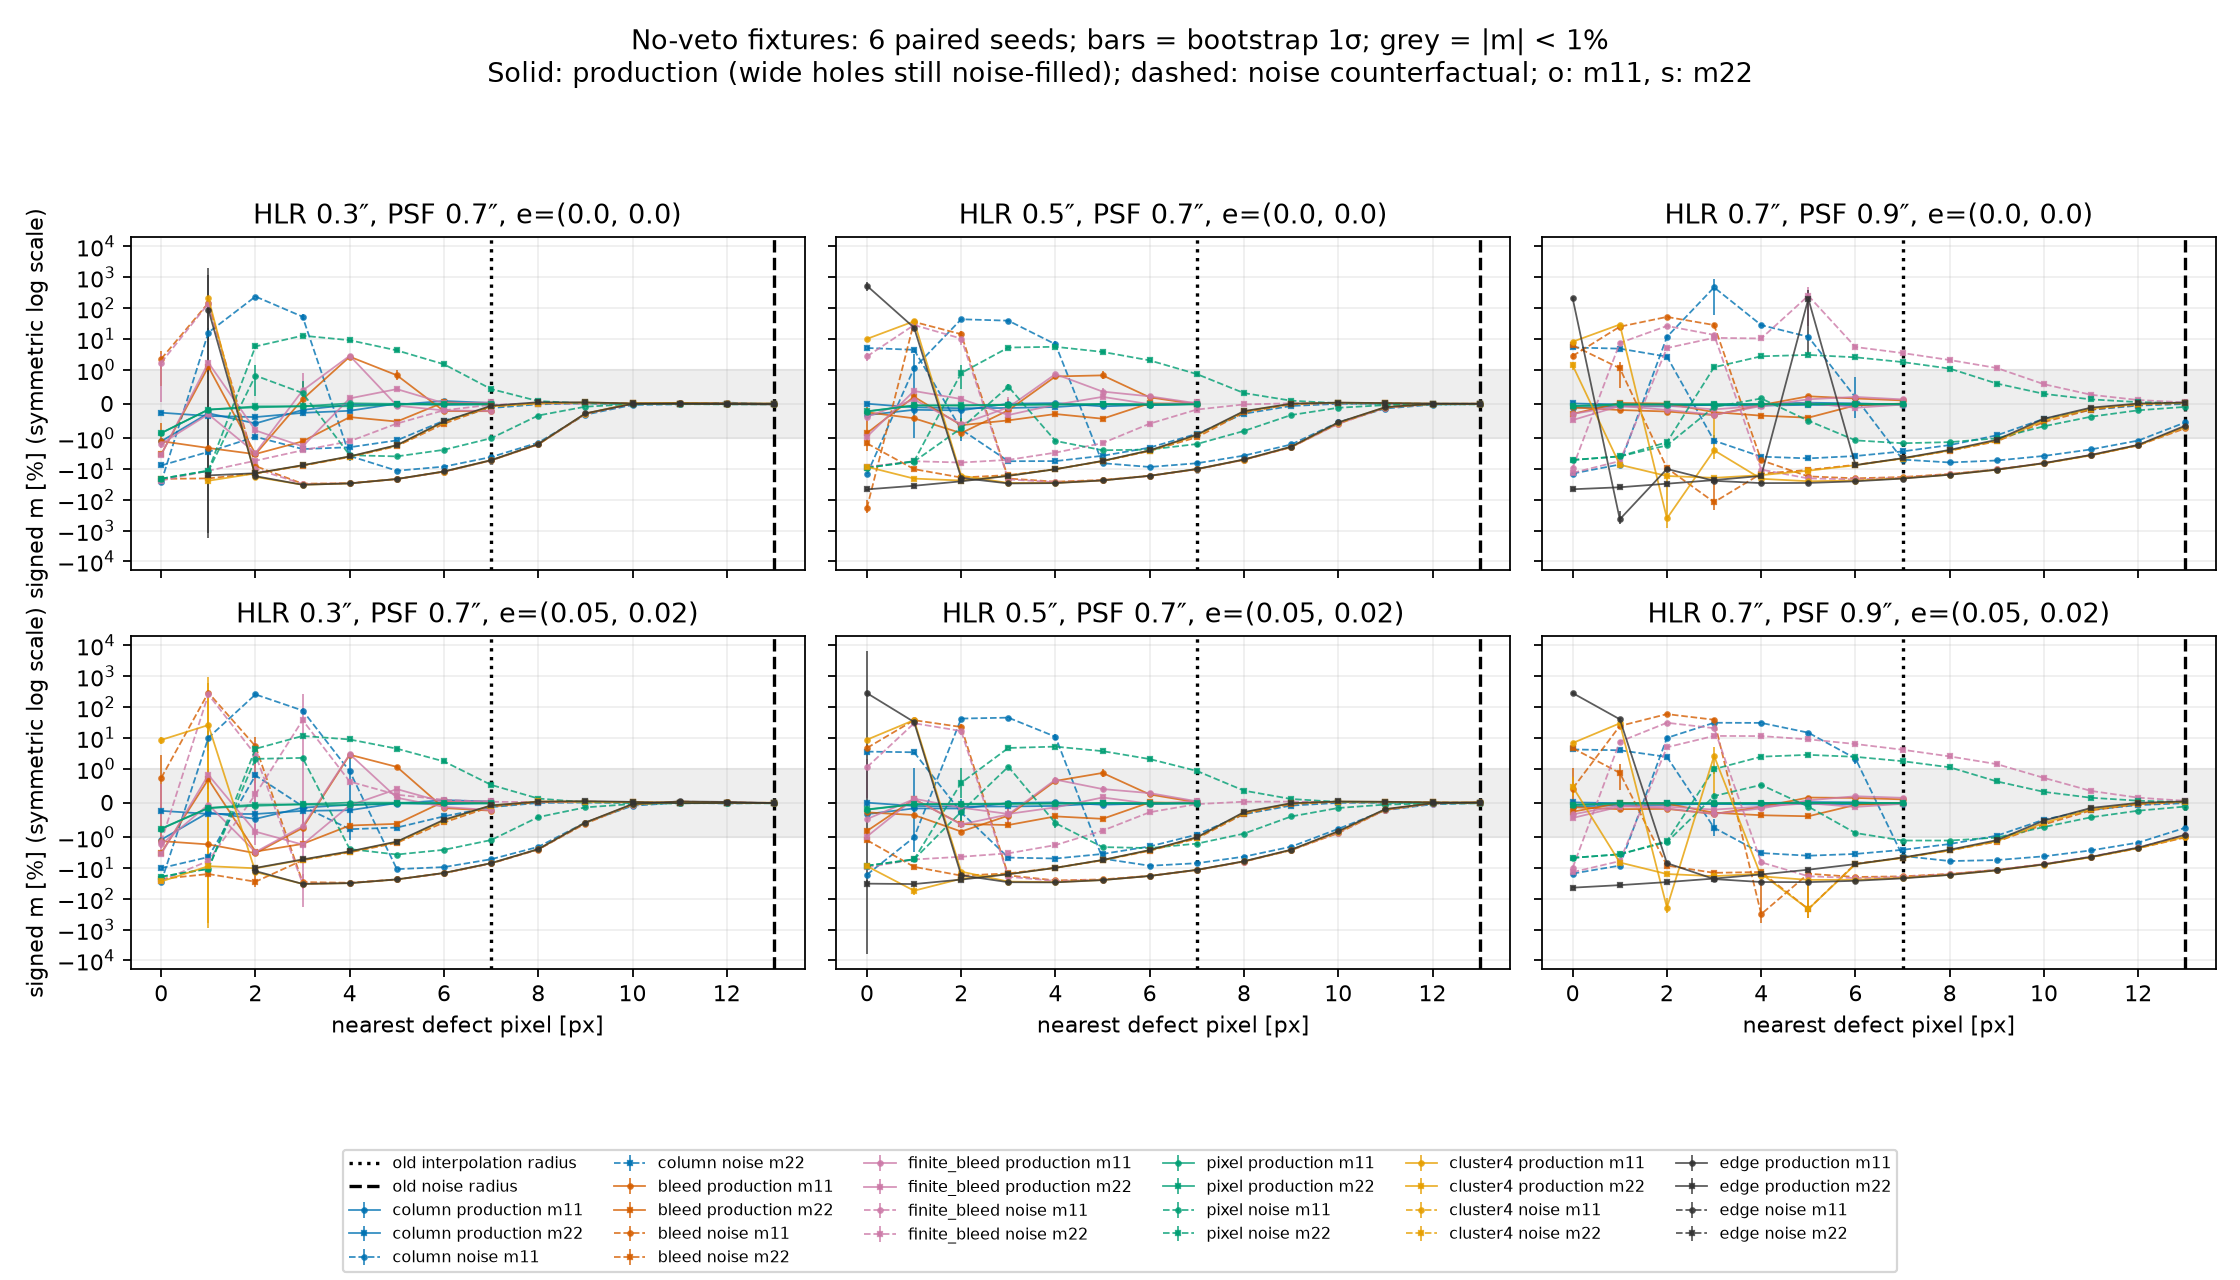
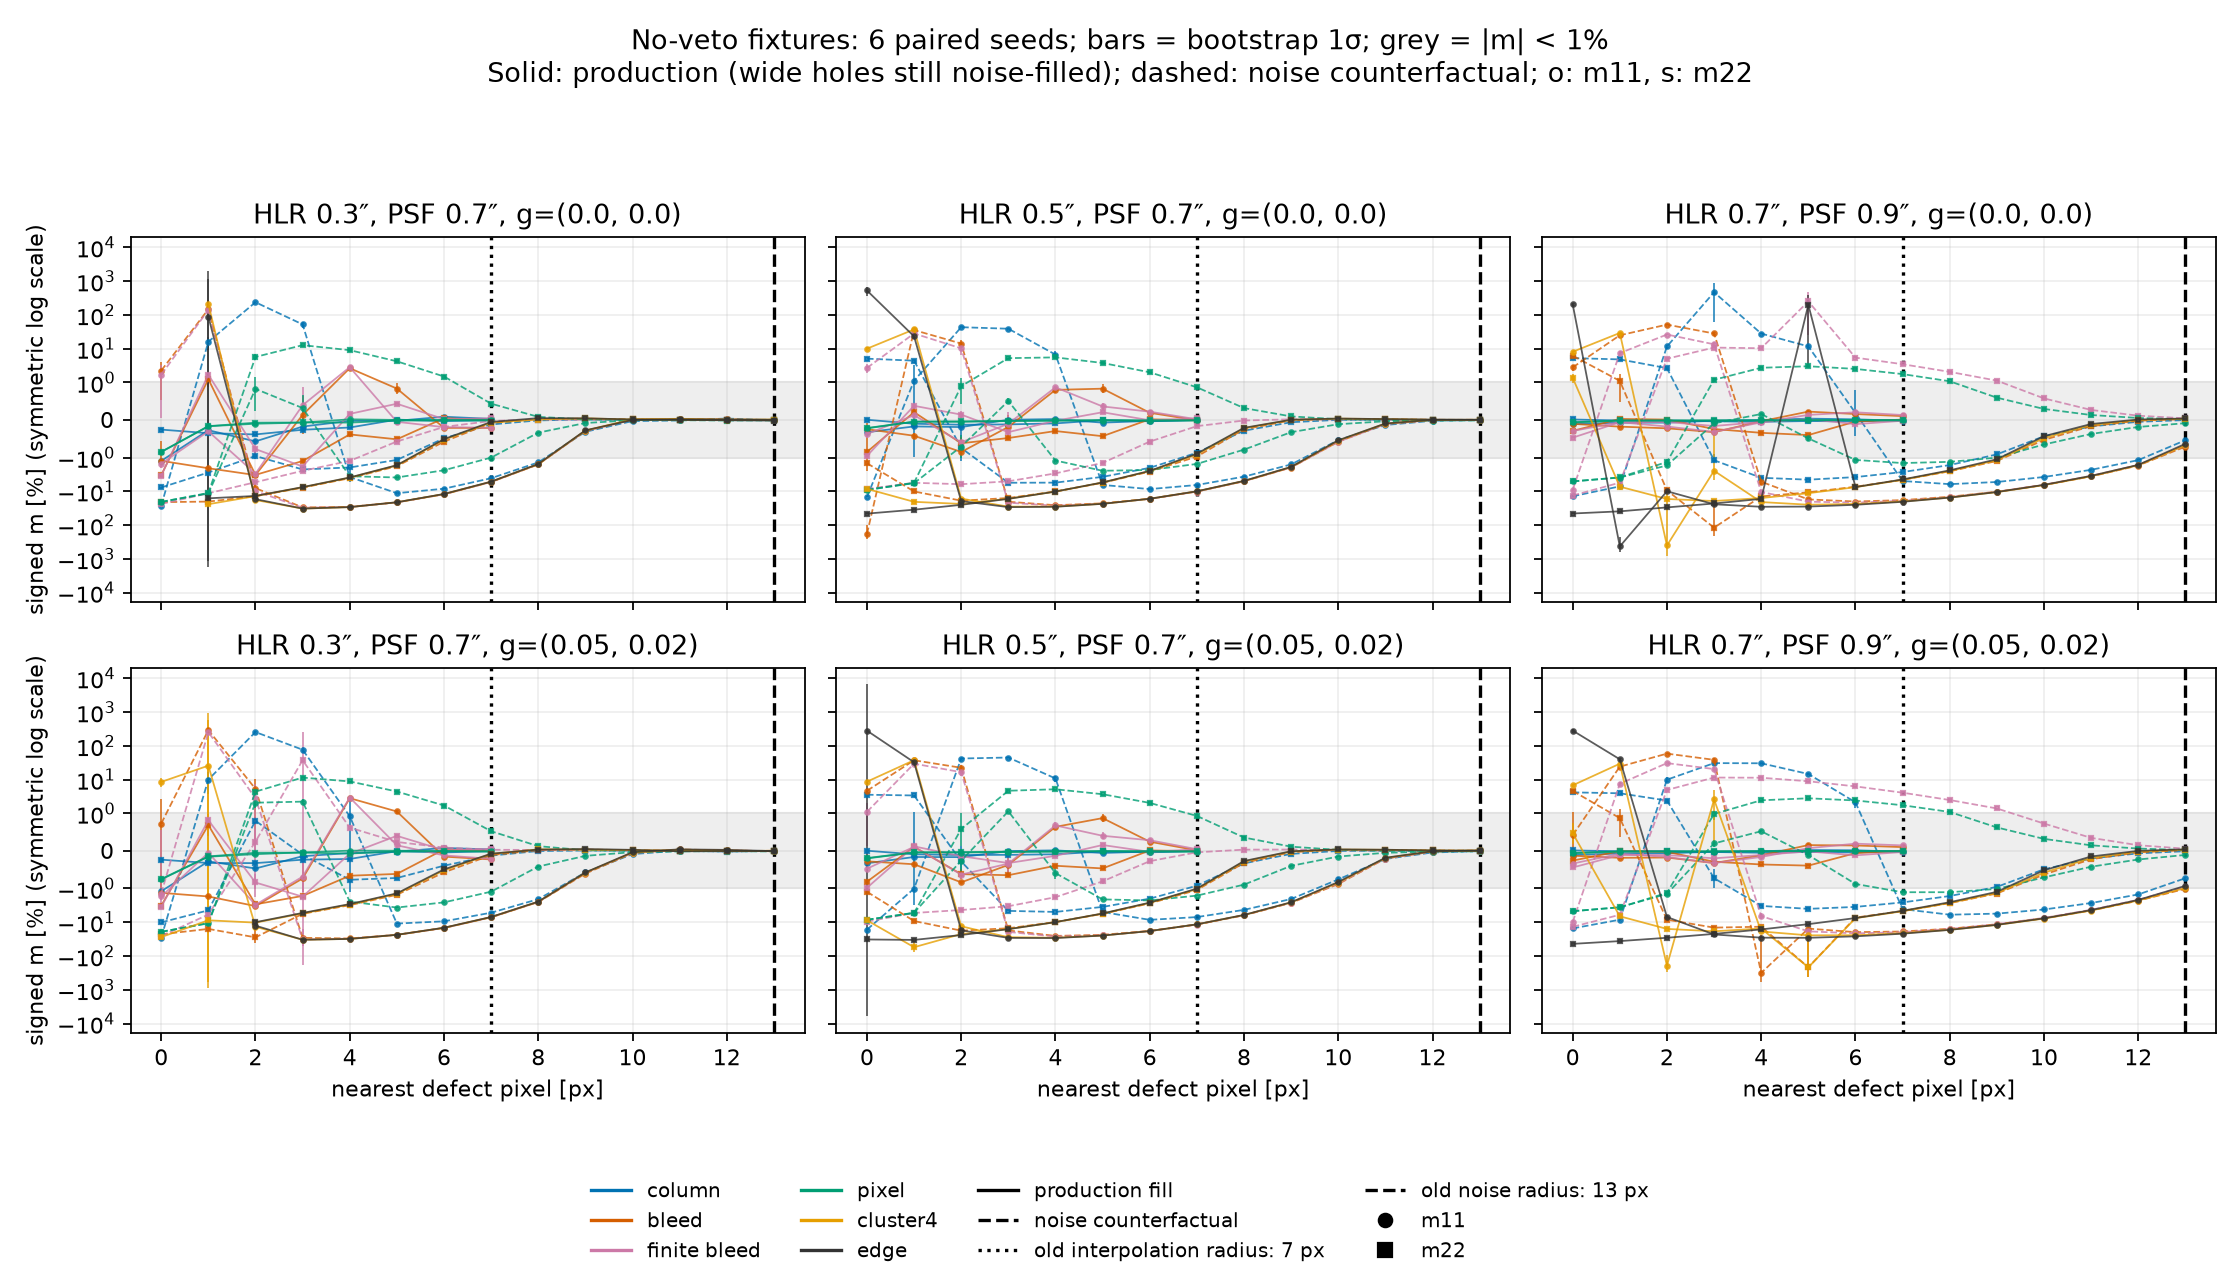
validation: record passing suites, killed mutations, and unchanged regenerated pins

diff --git a/scripts/validation/masked_pixels/check_veto_mutations.py b/scripts/validation/masked_pixels/check_veto_mutations.py
@@ -18,7 +18,13 @@ def check(mutation):
         failures = 0
 
         def pytest_collection_modifyitems(self, items):
-            if mutation not in ("ignore-additive-bias", "noise-as-interpolation"):
+            # Mutate after collection so tests keep their original geometry
+            # constants; only production selection changes.
+            if mutation == "remove-interpolation-veto":
+                ngm.EPOCH_INTERPOLATED_DEFECT_RADIUS = 0
+                return
+            if mutation == "remove-noise-veto":
+                ngm.EPOCH_CENTRAL_DEFECT_RADIUS = 0
                 return
             for module in {item.module for item in items}:
                 original = module.defect_response
@@ -38,11 +44,9 @@ def check(mutation):
                 self.failures += 1
 
     if mutation == "remove-interpolation-veto":
-        ngm.EPOCH_INTERPOLATED_DEFECT_RADIUS = 0
         target = ("tests/module/test_ngmix_defect_fill.py::"
                   "test_a_flagged_column_near_the_centre_is_still_vetoed")
     elif mutation == "remove-noise-veto":
-        ngm.EPOCH_CENTRAL_DEFECT_RADIUS = 0
         target = ("tests/module/test_ngmix_defect_fill.py::"
                   "test_under_noise_fill_every_defect_is_vetoed_at_the_noise_radius")
     else:

diff --git a/scripts/validation/masked_pixels/napoli_veto_scan.md b/scripts/validation/masked_pixels/napoli_veto_scan.md
@@ -115,6 +115,7 @@ The measured scan used job **24999265**, account `def-waerbeke`, 64 CPUs, 96 GiB
 It completed successfully in **2 min 38 s**, using about **14 GiB peak RSS and 2 h 9 min total CPU**.
 There was one pool and no sleep/polling loop.
 The SIF was `/project/def-mjhudson/cdaley/containers/shapepipe-develop-240b37e4.sif`, loaded with `apptainer/1.4.5`.
+Its measured package versions are NumPy 2.5.3, SciPy 1.17.1, GalSim 2.8.5 and ngmix 2.4.1; the workflow helper supplies Snakemake 9.23.1 from the project environment.
 The scanner implementation was `bd3ff85b` (the later plotting/documentation edits do not change the measured jobs); the science source and helper match base `b24f92e5` on `origin/feat/masked-pixels`.
 The initial tests were committed first as `db9d9c63`, observed failing, then the scanner patch was applied inside the allocation and its tests passed before scanning.
 Threaded BLAS/OpenMP were limited to one thread per process.
